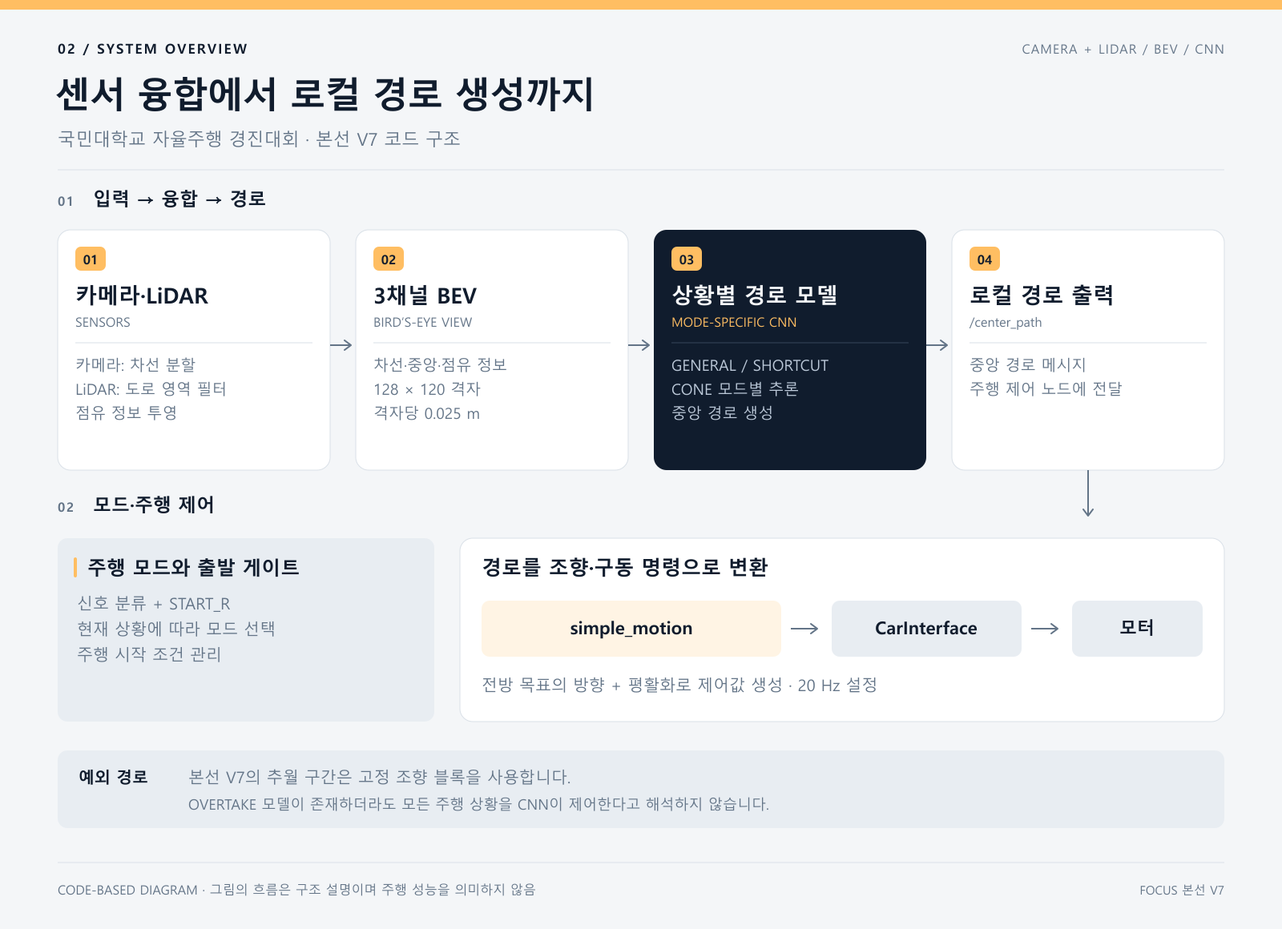
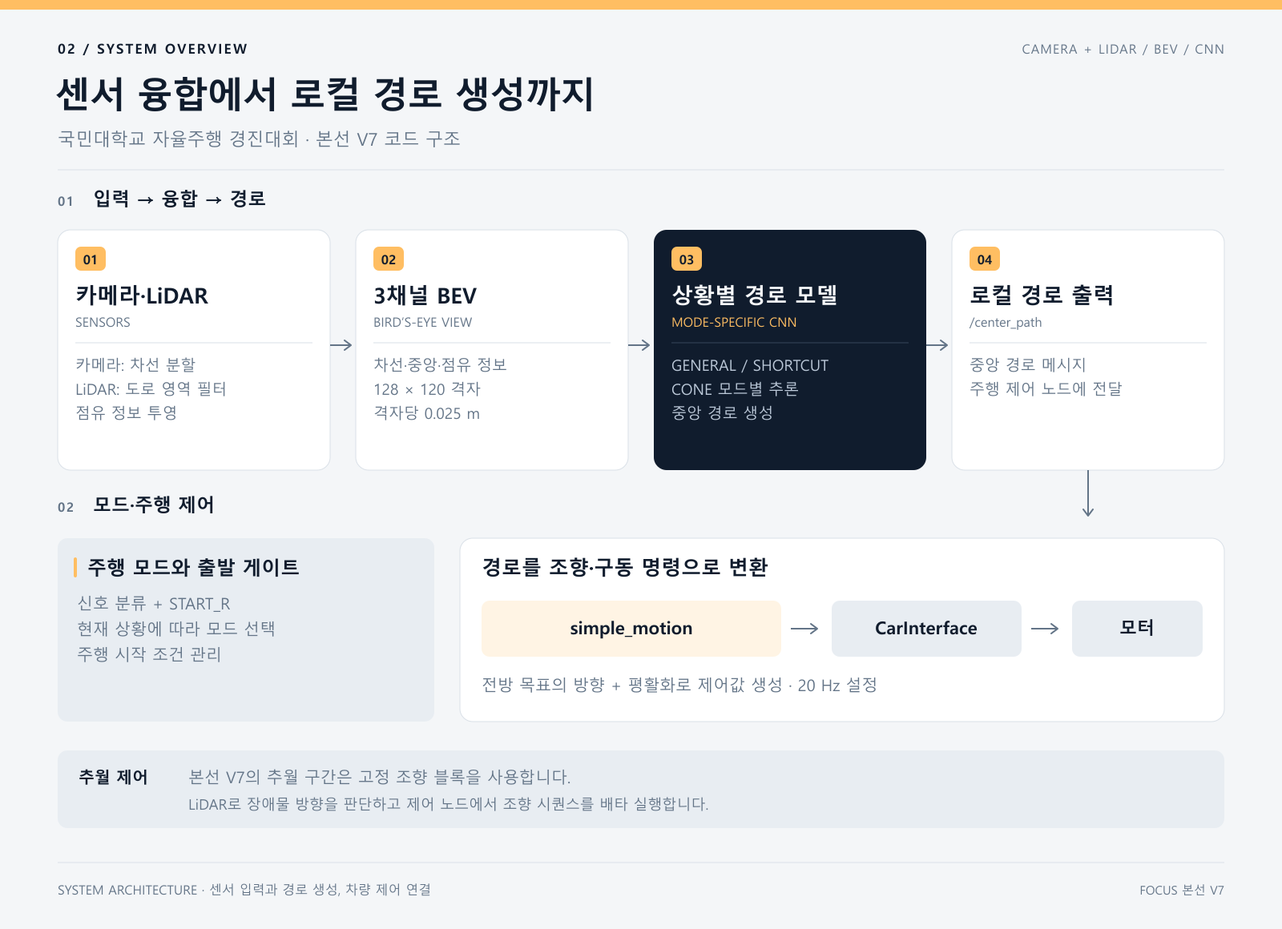
docs: focus portfolio copy and visuals on implementation and achievements

Changed region(s): [[0.1562, 0.8379, 0.5938, 0.869], [0.0625, 0.931, 0.4062, 0.9621], [0.0625, 0.8069, 0.125, 0.869]]

diff --git a/docs/engineering-cases.md b/docs/engineering-cases.md
@@ -2,7 +2,7 @@
 
 [프로젝트 소개로 돌아가기](../README.md)
 
-예선에서 동작하던 구조를 실차에 옮기면서, 검출 결과·학습 데이터·ROS 전송·모터 제어가 서로 다른 조건에서 실패했습니다. 아래는 개발 기록에 남긴 관찰과 실제 적용한 조치를 최종 코드와 대조해 정리한 사례입니다.
+예선 시뮬레이터의 주행 구조를 실차로 확장하면서, 차선 표현·센서 입력·전송 지연·모터 제어를 단계별로 개선했습니다. 증상을 재현하고 원인을 분리해 설계에 반영한 다섯 가지 사례입니다.
 
 ## 1. 해상도를 높이기 전에, 사라진 차선의 위치부터 찾기
 
@@ -10,7 +10,7 @@
 
 **확인.** 검출 마스크와 후처리 결과를 비교했습니다. 화면을 단순히 잘라내는 문제가 아니라, 전방 거리의 5 cm 구간마다 횡방향 중앙값 하나를 남기는 과정에서 여러 차선이 합쳐지고 있었습니다. 검출된 정보가 경로 모델에 도착하기 전에 없어지는 문제였습니다.
 
-**변경.** 대표점으로 축약하는 대신 마스크의 2차원 점유 형태를 BEV에 보존했습니다. 노란 중앙선·흰 경계선·LiDAR를 같은 좌표계의 세 채널로 만들고, 전방 28개 고정 위치의 횡방향 좌표와 유효도를 예측하도록 했습니다. CNN이 경로를 담당하고 모터 제어를 분리해, 각 단계의 실패를 따로 관찰할 수 있도록 했습니다.
+**변경.** 대표점으로 축약하는 대신 마스크의 2차원 점유 형태를 BEV에 보존했습니다. 노란 중앙선·흰 경계선·LiDAR를 같은 좌표계의 세 채널로 만들고, 전방 28개 고정 위치의 횡방향 좌표와 유효도를 예측하도록 했습니다. CNN의 경로 생성과 모터 제어를 분리해 각 단계의 입력·출력과 동작을 독립적으로 확인할 수 있도록 했습니다.
 
 [BEV 전후 비교 화면](../assets/bev-representation-comparison.png) · [입력·출력 규격](https://github.com/jounget5411-lab/2026-Legend-KHUSLA/blob/8036461664402a54821b0665a4434e961f9a2e76/본선/src/track_drive_cnn_gpt/track_drive_cnn_gpt/path_contract.py#L20-L32)
 
@@ -20,9 +20,9 @@
 
 <p align="center"><img src="../assets/path-label-editor.png" alt="일반 경로와 지름길 경로를 그려 수정본으로 저장하는 경로 라벨 보정 도구" width="100%"></p>
 
-*프로젝트 개발 기록에 수록한 경로 보정 도구 화면. 초기 일반·지름길 데이터의 경로를 별도로 그리거나 같게 지정하고 수정본을 저장했습니다. 화면의 샘플 수는 당시 작업본의 값입니다.*
+*경로 라벨 보정 도구: 일반·지름길 경로를 직접 수정하고 원본과 분리해 저장합니다.*
 
-연속 프레임을 무작위로 나누면 비슷한 장면이 학습과 평가에 함께 들어갑니다. 일반 주행 모델은 주행 시퀀스 단위로 분리해 평가했고, 지름길·추월·라바콘 모델은 독립 평가가 충분하지 않았다는 한계를 남겼습니다.
+일반 주행 모델은 주행 시퀀스 단위로 학습·검증·테스트 데이터를 분리했습니다. 연속 프레임의 유사 장면이 학습과 평가에 섞이는 것을 방지하고, 별도로 분리한 테스트 321장에서 **경로 예측 MAE 8.045 cm**를 기록했습니다.
 
 ## 2. LiDAR를 켜면 오히려 경로가 나빠지는 현상
 
@@ -44,7 +44,7 @@
 
 **변경.** 필요한 토픽에만 연결하는 브리지와 원본 영상 중심 전송을 사용했습니다. 아직 처리하지 못한 카메라 프레임은 최신 입력으로 교체하고, 같은 장치의 ROS 전송에는 공유 메모리를 사용했습니다. 뷰어는 제어 노드와 분리해 필요한 때만 실행했습니다.
 
-모델 자체를 비교한 별도 실험에서는 같은 녹화 프레임의 p50이 PyTorch 91.76 ms에서 OpenVINO 51.03 ms로 줄었습니다. 경로 발행률 11.948 Hz는 2026-08-21의 뷰어·브리지 제외 조건에서 얻은 값으로, 최종 대회 구성 전체의 처리율과 구분합니다. 초기 현장 관찰 약 2 Hz와 측정 조건이 달라 일률적인 개선 배수로 환산하지 않았습니다.
+같은 녹화 프레임으로 실행 방식을 비교한 결과, YOLO 추론 지연의 p50을 **PyTorch 91.76 ms에서 OpenVINO 51.03 ms**로 줄였습니다. 경로 생성 파이프라인은 2026-08-21의 뷰어·브리지 제외 조건에서 **11.948 Hz**를 기록했습니다.
 
 [최신 프레임 버퍼](https://github.com/jounget5411-lab/2026-Legend-KHUSLA/blob/8036461664402a54821b0665a4434e961f9a2e76/본선/src/track_drive_cnn_gpt/track_drive_cnn_gpt/yolo_bev_node.py#L60-L91) · [필요 토픽만 연결하는 모터 브리지](https://github.com/jounget5411-lab/2026-Legend-KHUSLA/blob/8036461664402a54821b0665a4434e961f9a2e76/본선/src/track_drive_cnn_gpt/tools/motor_up_gpt.sh)
 
@@ -56,22 +56,18 @@
 
 **변경.** 모터 명령 발행은 20 Hz로 유지하고, 속도 값의 상승량을 제어 틱당 0.25로 제한했습니다. 속도 변화량 제한의 책임을 상위 `simple_motion`으로 모으고 하위의 블로킹 램프를 제거했습니다. 감속은 더 빠르게 처리하며 명시적 정지는 같은 틱에 0을 발행하도록 구분했습니다.
 
-이 설정에서 속도 명령 0→12의 상승 시간은 약 2.4초입니다. 이는 차량 명령값의 변화 시간이며 실제 주행 속도나 인지 지연을 나타내는 값은 아닙니다.
+이 설정에서 속도 명령은 0→12까지 약 2.4초에 걸쳐 증가하며, 가속·감속·명시적 정지를 각각의 동작 목적에 맞게 처리합니다.
 
 [최종 속도 변화량 설정](https://github.com/jounget5411-lab/2026-Legend-KHUSLA/blob/8036461664402a54821b0665a4434e961f9a2e76/본선/src/track_drive_cnn_gpt/config/simple_motion.yaml) · [제어 코드](https://github.com/jounget5411-lab/2026-Legend-KHUSLA/blob/8036461664402a54821b0665a4434e961f9a2e76/본선/src/track_drive_cnn_gpt/track_drive_cnn_gpt/simple_motion_node.py)
 
-## 5. 남은 실차 시간을 기준으로 최종 구성을 결정
+## 5. 실차 통합을 고려한 최종 시스템 구성
 
-GPU 플랫폼으로 옮기면 추론 이점을 기대할 수 있었지만, 대회 직전에는 모터·드라이버·전원·의존성을 다시 연결하고 확인할 시간이 제한적이었습니다. 기존 CPU 차량을 유지하고 확인 가능한 전송·추론 병목을 줄이는 쪽을 선택했습니다.
+플랫폼 선정에서는 추론 속도와 함께 모터·드라이버·전원·소프트웨어 의존성의 통합 상태를 고려했습니다. 기존 CPU 차량을 유지하면서 전송과 추론의 병목을 줄여, 구성 요소를 실차 주행 시스템으로 통합했습니다.
 
-신호등은 LEFT와 GREEN을 충분히 안정적으로 구분하지 못했습니다. 반복 재학습 후 신호등 전체 박스를 검출하고 해당 영역만 별도 분류기로 판별하는 2단 구조로 전환했습니다. 추가 연산을 감수하되 신호등이 없는 프레임에서는 분류를 건너뛰었습니다. 조도별 정확도를 충분히 검증한 해결책이라고 주장하지는 않습니다.
+신호등의 LEFT와 GREEN 구분을 개선하기 위해 신호등 전체 박스를 검출하고 해당 영역만 별도 분류기로 판별하는 2단 구조를 적용했습니다. 신호등이 있는 프레임에서만 분류기를 실행해 연산량을 관리했습니다.
 
-추월 CNN도 반복 실차 검증이 부족했습니다. 최종 V7은 LiDAR로 장애물의 좌우를 판단하고 실차에서 조정한 고정 조향 블록을 적용했습니다. 별도 모터 발행자를 추가하지 않고 `simple_motion` 안에서 배타 실행했으며, 코드와 모델의 되돌릴 지점을 보존했습니다.
+최종 V7의 추월에는 LiDAR로 장애물의 좌우를 판단하고 실차에서 조정한 고정 조향 블록을 실행하는 전략을 적용했습니다. `simple_motion` 안에서 경로 추종과 배타적으로 실행해 제어 명령을 일원화했으며, 코드와 모델을 함께 버전 관리했습니다.
 
-대회에서는 접촉 감점이 남았지만 전체 코스를 완주했습니다. 이후에는 검증된 기준 버전을 유지하고, 모델 변경과 제어 튜닝을 분리하며, 대회 전에 코드·모델을 고정할 시점을 정해야 한다는 회고를 남겼습니다.
+최종 시스템으로 **전체 코스를 완주하고 본선 8위**를 기록했습니다. 차선 인식부터 학습 데이터 구축, 센서 융합, 경로 추론, 차량 제어까지 전 과정을 연결했습니다.
 
-[최종 추월 전략과 경로 선택](https://github.com/jounget5411-lab/2026-Legend-KHUSLA/blob/8036461664402a54821b0665a4434e961f9a2e76/본선/src/track_drive_cnn_gpt/track_drive_cnn_gpt/cnn_path_node.py#L1022-L1046) · [측정 조건과 구현 범위](technical-notes.md)
-
----
-
-사례의 관찰·실험 수치는 프로젝트 개발 기록에 근거하며, 연결한 소스는 최종 구현을 확인하기 위한 자료입니다. 이 포트폴리오를 정리하는 과정에서 같은 실험을 다시 수행한 것은 아닙니다.
+[최종 추월 전략과 경로 선택](https://github.com/jounget5411-lab/2026-Legend-KHUSLA/blob/8036461664402a54821b0665a4434e961f9a2e76/본선/src/track_drive_cnn_gpt/track_drive_cnn_gpt/cnn_path_node.py#L1022-L1046) · [성능과 설계 상세](technical-notes.md)

diff --git a/docs/technical-notes.md b/docs/technical-notes.md
@@ -1,79 +1,62 @@
-# 측정 조건과 구현 범위
+# 성능과 설계 상세
 
 [프로젝트 소개로 돌아가기](../README.md) · [문제 해결 사례](engineering-cases.md)
 
-구현 구조는 보관 저장소의 `8036461664402a54821b0665a4434e961f9a2e76` 커밋과 본선 V7 설정에 근거합니다. 대회 성과와 개발 중 실험은 프로젝트 기록을 기준으로 정리했습니다. 문서 제작 과정에서 차량 주행·모델 평가·ROS 빌드를 다시 수행하지는 않았습니다.
+본선 V7의 모델 평가, 처리율 측정, 제어 설정을 정리했습니다. 상세 구현은 보관 저장소의 `8036461664402a54821b0665a4434e961f9a2e76` 커밋에서 확인할 수 있습니다.
 
 ## 대회 성과
 
-| 항목 | 대회 후 기록 |
+| 항목 | 결과 |
 |---|---|
 | 본선 | 2026.08.25 |
 | 진출 | 예선 130팀 중 22팀 본선 진출 |
-| 최종 결과 | 전체 코스 완주 · 8위 · 비수상 |
-| 주행 기록 | 본 주행 135초, 접촉 감점 반영 155초 |
-| 남은 문제 | 라바콘 접촉과 추월 차량 접촉 |
+| 최종 결과 | **전체 코스 완주 · 최종 8위** |
 
-순위와 시간은 대회 후 기록에 근거합니다. 접촉 없이 완주했다거나 추월 CNN만으로 전 코스를 주행했다는 의미는 아닙니다.
+## 경로 모델과 데이터 구성
 
-## 모델 평가: 학습 적합도와 독립 평가 구분
+일반 주행 모델은 주행 시퀀스 단위로 데이터를 분리해 평가했습니다. 지름길·추월·라바콘 모델은 각 상황에 맞는 데이터를 구축해 학습했습니다.
 
-일반 주행 모델은 연속 프레임이 학습과 평가에 섞이지 않도록 시퀀스 단위로 나눈 기록이 있습니다. 나머지 세 모드의 수치는 학습 데이터에 대한 적합도이며, 독립 장면에서의 성능으로 해석하지 않습니다.
-
-| 모델 | 데이터 구성 | 기록된 경로 MAE | 해석 |
+| 모델 | 데이터 구성 | 경로 예측 MAE | 평가 데이터 |
 |---|---|---|---|
-| GENERAL | train 1,731 / validation 178 / test 321장 | **test 8.045 cm** | 분리한 테스트 데이터 평가 |
-| SHORTCUT | 928장, 전체 학습 사용 | training-fit 2.846 cm | 학습 데이터 적합도 |
-| OVERTAKE | 508장, 전체 학습 사용 | training-fit 1.717 cm | 학습 데이터 적합도 |
-| CONE | 967장, 전체 학습 사용 | training-fit 3.686 cm | 학습 데이터 적합도 |
+| GENERAL | train 1,731 / validation 178 / test 321장 | **8.045 cm** | 별도로 분리한 테스트 321장 |
+| SHORTCUT | 학습 928장 | 2.846 cm | 학습 데이터 |
+| OVERTAKE | 학습 508장 | 1.717 cm | 학습 데이터 |
+| CONE | 학습 967장 | 3.686 cm | 학습 데이터 |
 
-이 오차는 데이터셋의 정답 경로와 모델 예측 경로 사이의 차이입니다. 차량의 실제 횡방향 추종 오차, 무접촉 주행률, 신호등 인식 정확도와는 다른 지표입니다.
+경로 예측 MAE는 데이터셋의 정답 경로와 모델 예측 경로 사이의 평균 절대 오차입니다.
 
-최종 코드의 공통 입력은 노란선·흰선·LiDAR로 구성된 `3 × 128 × 120` BEV입니다. 경로는 전방 0.3–3.0 m의 고정 위치 28개를 기준으로 표현합니다. 실행 시 유효도와 경로 조건을 통과한 구간만 차량 제어에 전달하므로, 모든 `/center_path` 메시지가 항상 28개 점을 포함하는 것은 아닙니다.
+공통 입력은 노란선·흰선·LiDAR로 구성된 `3 × 128 × 120` BEV입니다. 경로는 전방 0.3–3.0 m의 고정 위치 28개를 기준으로 표현하고, 유효도와 경로 조건을 통과한 구간을 차량 제어에 전달합니다.
 
 ## 지연과 처리율의 측정 조건
 
-| 대상 | 개발 기록 | 범위 |
+| 대상 | 측정값·설정값 | 조건 |
 |---|---|---|
 | YOLO 실행 방식 비교 | PyTorch p50 91.76 ms → OpenVINO p50 51.03 ms | 같은 녹화 프레임을 사용한 모델 비교 |
-| 자원 경합 관찰 | 단독 실행 약 50 ms / 실주행 평균 약 181 ms | 실행 부하와 집계 방식이 다른 관찰값 |
 | 경로 생성 파이프라인 | `/center_path` 11.948 Hz, camera-to-path p50 약 114.5 ms | **2026-08-21, 뷰어·브리지 제외 조건** |
-| 초기 현장 관찰 | 경로 갱신 약 2 Hz | 수동 관찰이며 위 계측과 동일 조건 비교가 아님 |
 | 모터 제어 | 20 Hz, 속도 상승량 0.25/tick | 제어 설정값 |
 | 가속 변화 | 속도 명령 0→12에 약 2.4초 | 설정에 따른 명령 변화 시간 |
 
-경로 발행률과 센서 입력부터 결과까지의 지연은 서로 다른 값입니다. 2 Hz를 정확히 500 ms의 인지 지연으로 환산하거나, 초기 관찰과 후반 계측을 동일 조건의 6배 개선으로 표현하지 않습니다. 11.948 Hz 또한 신호등 2단 분류기를 포함한 최종 대회 구성 전체의 처리율로 사용하지 않습니다.
+최신 프레임 버퍼, 필요한 토픽만 연결하는 브리지, 공유 메모리 전송으로 추론과 영상 전송의 자원 경합을 줄였습니다. 모터 제어에서는 차량 명령값 `speed_cmd`의 변화량을 제한해 가속을 부드럽게 처리했습니다.
 
-`speed_cmd`는 차량 명령값입니다. 별도 속도 보정 없이 km/h로 환산하지 않습니다.
+## 본선 V7 설계
 
-## 최종 V7과 개발 과정의 구분
-
-- 예선은 2차곡선 피팅과 상태 머신 중심이며 본선 V7은 BEV·CNN 경로 생성 중심입니다.
-- 네 가지 모델을 준비하지만 매 입력에서 활성 모드의 모델 하나만 추론합니다.
-- 최종 장애물 회피 전략은 `hardcoded_all`입니다. 조향 블록 실행 중에는 경로 CNN의 모드를 GENERAL로 유지하며 제어 노드가 조향을 배타적으로 담당합니다.
-- 신호등은 검출한 박스에 별도 분류기를 적용합니다. 조도·거리·흔들림 조건을 포괄하는 최종 정확도는 충분히 평가하지 못했습니다.
-- 모드 종료와 추월 블록이 시간에 의존하므로 실제 이동 거리·차량 속도가 달라지는 환경에 대한 일반화에는 한계가 있습니다.
-- 경로 생성은 입력 시각·형식·유효성을 검사하지만, 제어는 새 경로를 받지 못하면 이전 유효 경로·조향을 유지할 수 있습니다. 경로 유실이 자동 정지를 뜻하지 않습니다. 이는 대회 실험 환경의 정책입니다.
-- `race_finish_enabled`는 `false`입니다. 자동 랩 종료는 최종 활성 기능이 아닙니다.
+- **BEV 기반 경로 생성:** 예선의 2차곡선 피팅과 상태 머신을 카메라·LiDAR 융합 및 CNN 경로 생성으로 확장했습니다.
+- **상황별 모델 선택:** 일반·지름길·추월·라바콘 모델을 미리 로드하고 현재 모드의 모델 하나를 추론합니다.
+- **추월 제어:** `hardcoded_all` 전략으로 LiDAR 기반 장애물 방향 판단과 고정 조향 시퀀스를 결합했습니다. 조향 블록 실행 중에는 경로 CNN의 모드를 GENERAL로 유지하고 제어 노드가 조향을 배타적으로 담당합니다.
+- **2단 신호등 인식:** 검출한 신호등 영역에 별도 분류기를 적용하고, 신호등이 없는 프레임에서는 분류 연산을 생략합니다.
+- **입력 검증:** 시각·형식·유효도를 확인한 경로를 제어 노드에 전달합니다.
+- **제어 명령 일원화:** 경로 추종·추월·가감속 처리를 `simple_motion`에서 통합하고 `/xycar_motor`로 발행합니다.
 
 ## 실행 환경
 
-| 항목 | 원본 자료에 기록된 조건 |
+| 항목 | 구성 |
 |---|---|
 | 차량 PC | Ryzen 7 5700U · CPU 실행 |
 | 기본 환경 | Ubuntu · ROS 2 Humble / ROS 1 Noetic 모터 환경 |
 | 모델 | PyTorch · Ultralytics · OpenVINO |
 | 차량 연동 | ROS1 모터 브리지, VESC·센서 드라이버, 조향 보정 및 차량 외부 스크립트 |
-| 경로 | 모델·설치 위치가 개발 차량의 절대 경로로 기록됨 |
+| 모델 배치 | 차량 PC의 모델·설치 경로를 설정 파일로 관리 |
 | 패키지 의존 | `track_drive_cnn_gpt`에서 `track_drive`의 `CarInterface`와 설정 사용 |
 | 배포 기록 | 6개 PT 모델과 OpenVINO 변환 파일의 체크섬 기록 |
 
-복원 조건은 [원본 V7 안내](https://github.com/jounget5411-lab/2026-Legend-KHUSLA/blob/8036461664402a54821b0665a4434e961f9a2e76/본선_최종_V7_안내.md)를 참고하세요. 테스트 파일과 모델 체크섬 기록이 보관되어 있으며, 이 포트폴리오 자체는 독립 실행용 코드 배포가 아닌 설명 문서입니다.
-
-## 이미지의 범위
-
-- 대표 이미지와 V7 구조도는 소스에 근거해 새로 그린 개념 그림입니다.
-- BEV 비교와 경로 보정 도구는 프로젝트 개발 기록에 수록된 화면을 원본 그대로 사용했습니다.
-- 비교 화면의 셀 수나 도구 화면의 샘플 수는 해당 프레임·작업본의 값입니다. 전체 데이터셋 규모나 최종 모델 성능을 대신하지 않습니다.
-
-[근거 코드와 기록의 구분](source-guide.md)에서 각 설명에 연결된 자료를 확인할 수 있습니다.
+모델 배치와 차량 실행 환경은 [본선 V7 안내](https://github.com/jounget5411-lab/2026-Legend-KHUSLA/blob/8036461664402a54821b0665a4434e961f9a2e76/본선_최종_V7_안내.md), 구성 요소별 파일은 [코드 안내](source-guide.md)에서 확인할 수 있습니다.

diff --git a/README.md b/README.md
@@ -15,7 +15,7 @@
 | 주요 기술 | Python · ROS 2 / ROS 1 연동 · OpenCV · YOLO · PyTorch · OpenVINO |
 | 본선 기준 | V7 · 팀 원본 커밋 `467f6dd` |
 
-[전체 코드](https://github.com/jounget5411-lab/2026-Legend-KHUSLA) · [문제 해결 사례](docs/engineering-cases.md) · [측정 조건과 구현 범위](docs/technical-notes.md) · [근거 코드](docs/source-guide.md)
+[전체 코드](https://github.com/jounget5411-lab/2026-Legend-KHUSLA) · [문제 해결 사례](docs/engineering-cases.md) · [성능과 설계 상세](docs/technical-notes.md) · [코드 살펴보기](docs/source-guide.md)
 
 ## 해결한 문제
 
@@ -27,7 +27,7 @@
 
 <p align="center"><img src="assets/bev-representation-comparison.png" alt="한 프레임의 BEV 비교: 왼쪽은 대표점으로 축약한 차선, 오른쪽은 마스크 형태를 보존한 차선" width="100%"></p>
 
-*프로젝트 개발 기록에 수록한 비교 화면. 왼쪽은 대표점으로 축약한 표현, 오른쪽은 전체 마스크를 유지한 표현입니다. 화면의 셀 수는 이 프레임의 예시입니다.*
+*BEV 표현 개선 전후: 대표점으로 축약한 차선(왼쪽)과 갈림길 형태를 보존한 차선 마스크(오른쪽).*
 
 ### LiDAR를 추가하자 경로가 나빠졌다
 
@@ -56,19 +56,19 @@
 | 주행 제어 | 전방 목표점 추종, 조향 평활화, 모드별 속도, 가감속 변화량 제한 · **20 Hz 설정** |
 | 관찰 | 실제 CNN 입력·경로·모드·신호·차량 명령을 진단 뷰어에서 확인 |
 
-**최종 V7의 추월은 `hardcoded_all` 전략입니다.** 추월 CNN도 개발했지만 반복 실차 검증 시간이 부족해, LiDAR로 장애물 방향을 판단하고 고정 조향 시퀀스를 실행하는 대안을 적용했습니다. 이 동작은 같은 제어 노드 안에서 배타적으로 실행해 모터 명령 충돌을 피했습니다.
+**최종 V7의 추월에는 LiDAR 기반 고정 조향 시퀀스(`hardcoded_all`)를 적용했습니다.** 장애물의 방향을 판단한 뒤 실차에서 조정한 조향 블록을 실행합니다. 같은 제어 노드 안에서 경로 추종과 배타적으로 동작하도록 구성해 모터 명령 충돌을 방지했습니다.
 
-## 데이터와 확인한 결과
+## 데이터와 성능
 
 경로 정답은 자동 생성한 후보를 사람이 검수하고, 잘못된 경로를 보정 도구로 다시 그려 만들었습니다. 원본과 수정본을 분리해 이력을 남겼으며, 일반 주행 모델은 연속 프레임이 학습·평가에 섞이지 않도록 주행 시퀀스 단위로 나눴습니다.
 
-| 확인 항목 | 개발 기록에 남긴 결과 | 측정·평가 조건 |
+| 항목 | 결과 | 측정·평가 조건 |
 |---|---|---|
-| 일반 경로 CNN | **경로 MAE 8.045 cm** | 별도로 분리한 테스트 321장 · 차량의 실제 횡방향 추종 오차와는 구분 |
+| 일반 경로 CNN | **경로 예측 MAE 8.045 cm** | 주행 시퀀스 단위로 분리한 테스트 321장 |
 | YOLO 실행 방식 비교 | p50 **91.76 → 51.03 ms** | 같은 녹화 프레임의 PyTorch / OpenVINO 비교 |
 | 경로 발행률 | **11.948 Hz** | 2026-08-21, 뷰어·브리지를 제외한 계측 조건 |
 
-대회에서는 라바콘·추월 차량 접촉 감점이 있었지만 전체 코스를 완주해 8위로 마쳤습니다. 대회 결과는 대회 후 기록, 위 수치는 개발 측정 기록을 기준으로 정리했습니다. [평가 범위와 한계](docs/technical-notes.md)를 함께 남겼습니다.
+예선 130팀 중 본선 22팀에 진출했으며, **전체 코스를 완주하고 최종 8위**를 기록했습니다. 모델 평가와 처리율 측정 조건은 [성능과 설계 상세](docs/technical-notes.md)에 정리했습니다.
 
 ## 개발 단계
 
@@ -93,7 +93,7 @@
 
 본선은 Ubuntu·ROS 2 Humble과 차량별 센서·모터 설정을 전제로 합니다. 모델 배치와 환경 복원 조건은 [본선 V7 안내](https://github.com/jounget5411-lab/2026-Legend-KHUSLA/blob/8036461664402a54821b0665a4434e961f9a2e76/본선_최종_V7_안내.md)를 참고하세요.
 
-전체 구현은 팀 프로젝트 결과물이며, 본선 V7은 [KHUSLA-SANDI/KOOKMIN의 고정 커밋](https://github.com/KHUSLA-SANDI/KOOKMIN/tree/467f6dda6b71c48567225d3260d925d72818e3c1)에 기반합니다. 구현 설명은 [보관 저장소의 8036461 커밋](https://github.com/jounget5411-lab/2026-Legend-KHUSLA/tree/8036461664402a54821b0665a4434e961f9a2e76), 시행착오와 성과는 개발·대회 기록을 기준으로 작성했습니다.
+전체 코드는 [팀 프로젝트 보관 저장소](https://github.com/jounget5411-lab/2026-Legend-KHUSLA/tree/8036461664402a54821b0665a4434e961f9a2e76)에서 확인할 수 있습니다. 본선 V7의 원본은 [KHUSLA-SANDI/KOOKMIN](https://github.com/KHUSLA-SANDI/KOOKMIN/tree/467f6dda6b71c48567225d3260d925d72818e3c1)에 보관되어 있습니다.
 
 ---
 

diff --git a/docs/source-guide.md b/docs/source-guide.md
@@ -1,14 +1,14 @@
-# 구현 근거와 개발 기록
+# 코드 안내
 
 [프로젝트 소개로 돌아가기](../README.md)
 
 기준 커밋: `8036461664402a54821b0665a4434e961f9a2e76`
 
-코드는 최종 구현을, 개발 기록은 그 구현을 선택하게 된 관찰과 실험을 설명합니다. 소스에 설정이 존재한다는 사실과 과거 실험에서 얻은 성능 수치를 구분했습니다.
+예선부터 본선 V7까지의 주요 구현 파일을 기능별로 정리했습니다.
 
-## 소스로 확인할 수 있는 구조
+## 주요 구현 파일
 
-| 설명 | 구현 근거 |
+| 기능 | 코드 |
 |---|---|
 | 예선 시뮬레이터 최종 제출 / 본선 V7 / 초기 실차 이식 코드 구분 | [루트 README](https://github.com/jounget5411-lab/2026-Legend-KHUSLA/blob/8036461664402a54821b0665a4434e961f9a2e76/README.md) |
 | 본선 V7 원본은 팀 저장소의 고정 커밋 | [V7 안내](https://github.com/jounget5411-lab/2026-Legend-KHUSLA/blob/8036461664402a54821b0665a4434e961f9a2e76/본선_최종_V7_안내.md) |
@@ -27,24 +27,15 @@
 | 차량 명령은 /xycar_motor로 발행 | [simple_motion_node.py](https://github.com/jounget5411-lab/2026-Legend-KHUSLA/blob/8036461664402a54821b0665a4434e961f9a2e76/본선/src/track_drive_cnn_gpt/track_drive_cnn_gpt/simple_motion_node.py#L477-L500) |
 | 배포 모델 6개 PT + OpenVINO 파일의 SHA256 기록 | [manifest.json](https://github.com/jounget5411-lab/2026-Legend-KHUSLA/blob/8036461664402a54821b0665a4434e961f9a2e76/본선_배포모델/manifest.json) |
 
-| 추가 설명 | 구현 근거 |
+| 추가 기능 | 코드 |
 |---|---|
 | 3채널 입력과 전방 0.3–3.0 m의 28점 경로 규격 | [path_contract.py](https://github.com/jounget5411-lab/2026-Legend-KHUSLA/blob/8036461664402a54821b0665a4434e961f9a2e76/본선/src/track_drive_cnn_gpt/track_drive_cnn_gpt/path_contract.py#L20-L32) |
 | 차선·LiDAR 특징을 별도로 인코딩한 경로 모델 | [path_model.py](https://github.com/jounget5411-lab/2026-Legend-KHUSLA/blob/8036461664402a54821b0665a4434e961f9a2e76/본선/src/track_drive_cnn_gpt/track_drive_cnn_gpt/path_model.py#L188-L231) |
 | 필요한 토픽만 연결하는 모터 브리지 | [motor_up_gpt.sh](https://github.com/jounget5411-lab/2026-Legend-KHUSLA/blob/8036461664402a54821b0665a4434e961f9a2e76/본선/src/track_drive_cnn_gpt/tools/motor_up_gpt.sh) |
 | 속도 변화량 제한과 명시적 정지 분리 | [simple_motion.yaml](https://github.com/jounget5411-lab/2026-Legend-KHUSLA/blob/8036461664402a54821b0665a4434e961f9a2e76/본선/src/track_drive_cnn_gpt/config/simple_motion.yaml), [simple_motion_node.py](https://github.com/jounget5411-lab/2026-Legend-KHUSLA/blob/8036461664402a54821b0665a4434e961f9a2e76/본선/src/track_drive_cnn_gpt/track_drive_cnn_gpt/simple_motion_node.py) |
 
-## 개발·대회 기록에 근거한 내용
+## 함께 읽기
 
-| 내용 | 기록의 종류 | 공개 문서에서의 범위 |
-|---|---|---|
-| 예선 130팀 → 본선 22팀, 최종 8위·전체 코스 완주 | 대회 후 결과 기록 | 공식 결과표를 별도로 대조한 것으로 표현하지 않음 |
-| 갈림길 정보가 대표점 축약 과정에서 사라진 사례 | 처리 단계 비교와 BEV 화면 | 해당 프레임의 표현 차이와 설계 변경 설명 |
-| LiDAR ON/OFF와 점유 분포 비교 | 실차 디버깅 기록 | 학습·배포 입력 차이와 모드별 전처리의 근거 |
-| OpenVINO 비교·CPU 경합·경로 발행률 | 개발 측정 기록 | 모델 단독 측정과 파이프라인 측정 조건 구분 |
-| GENERAL 테스트 경로 MAE 8.045 cm | 모델 학습·평가 기록 | 분리한 테스트 321장의 경로 오차 |
-| 경로 라벨 보정 화면 | 개발 도구 화면 | 초기 데이터 작업 과정의 예시 |
-| VESC 전압 강하와 하위 블로킹 램프 | 실차 제어 디버깅 기록 | 관찰과 변경 이유, 최종 설정과의 연결 |
-
-대회 결과와 과거 실험은 기록을 재구성한 내용입니다. 연결된 소스만으로 순위나 과거 측정 수치가 증명된다고 설명하지 않습니다. 모델 평가와 측정 조건은 [측정 조건과 구현 범위](technical-notes.md), 원인 분석 과정은 [문제 해결 사례](engineering-cases.md)에 정리했습니다.
+- [문제 해결 사례](engineering-cases.md): BEV 표현 개선, 센서 입력 정합, ROS 전송 병목, 모터 제어와 최종 시스템 통합
+- [성능과 설계 상세](technical-notes.md): 데이터 구성, 경로 모델 평가, 추론 지연과 경로 발행률, 본선 V7 실행 환경
 

diff --git a/assets/README.md b/assets/README.md
@@ -1,12 +1,10 @@
-# Visual assets
+# 프로젝트 이미지
 
-- `hero.svg` / `hero.png`: 프로젝트 소개용 개념 이미지
-- `architecture.svg` / `architecture.png`: 코드에서 확인한 처리 구조
-- `bev-representation-comparison.png`: 프로젝트 개발 기록에 수록한 BEV 표현 비교 화면
-- `path-label-editor.png`: 프로젝트 개발 기록에 수록한 경로 라벨 보정 도구 화면
+- `hero.svg` / `hero.png`: 카메라·LiDAR 융합부터 차량 제어까지의 프로젝트 대표 이미지
+- `architecture.svg` / `architecture.png`: 본선 V7의 처리 구조도
+- `bev-representation-comparison.png`: 대표점 축약과 차선 마스크 보존 방식의 BEV 비교 화면
+- `path-label-editor.png`: 일반·지름길 경로를 수정하고 저장하는 라벨 보정 도구 화면
 
-대표 이미지와 구조도는 이 포트폴리오를 위해 제작한 벡터 그래픽입니다. 그 안의 경로 모양, 격자 활성 패턴, 노드 배치는 설명용이며 실제 주행 기록·실험 결과가 아닙니다.
-
-BEV 비교 화면과 라벨 보정 도구 화면은 프로젝트 개발 기록의 이미지를 수정 없이 사용했습니다. 비교 화면의 셀 수는 해당 프레임의 값이고, 라벨 보정 도구의 샘플 수는 당시 작업본의 값입니다. 인물이 포함된 카메라 사진과 비공개 문서 전체는 포함하지 않았습니다.
+대표 이미지와 구조도는 포트폴리오용 벡터 그래픽이며, BEV 비교 화면과 라벨 보정 도구 화면은 실제 개발 과정에서 사용한 자료입니다.
 
 SVG는 수정 가능한 원본이고 PNG는 GitHub 표시 호환성을 위한 이미지입니다. 폰트는 Malgun Gothic / Segoe UI / Arial 계열을 사용합니다.
